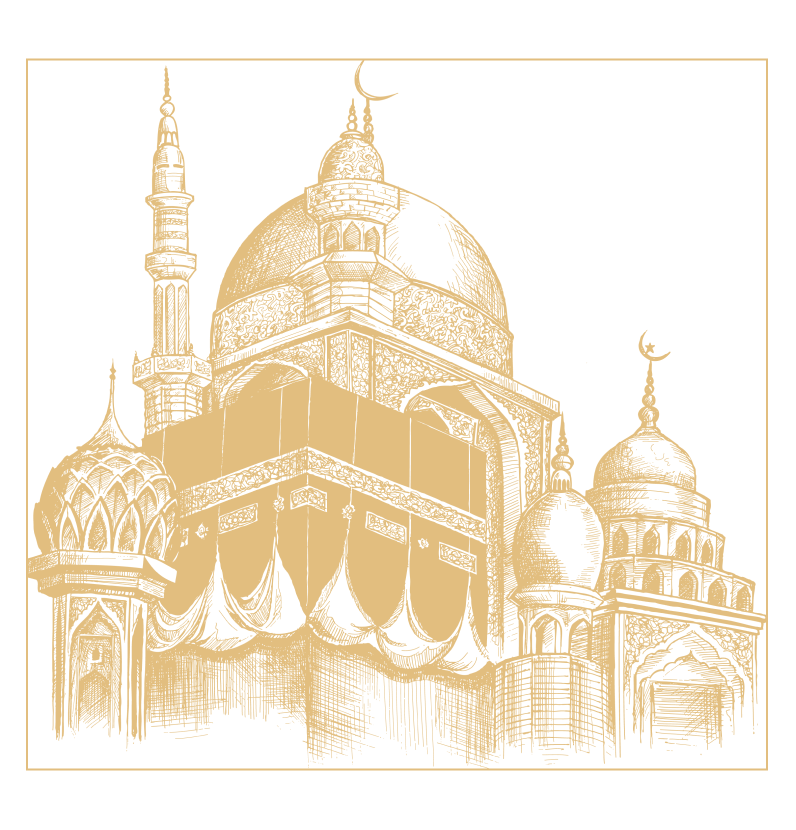
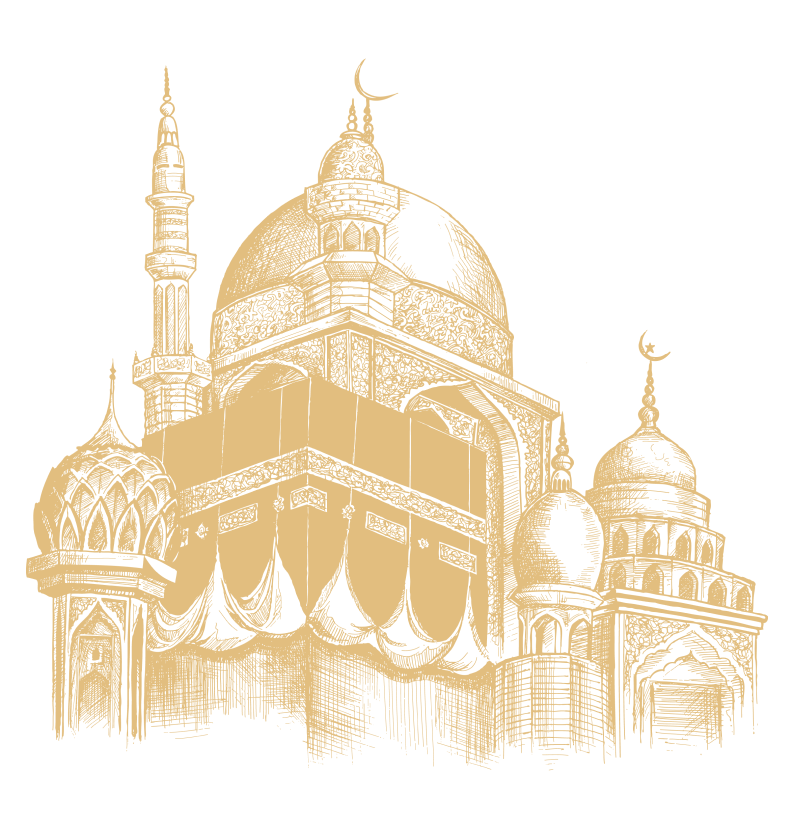
+ finished on introduction screen.

Changed region(s): [[0.0302, 0.9036, 0.9648, 0.9337], [0.0302, 0.0602, 0.9648, 0.0904]]

diff --git a/lib/ui/screens/on_boarding/on_boarding_screen.dart b/lib/ui/screens/on_boarding/on_boarding_screen.dart
@@ -1,0 +1,73 @@
+import 'package:flutter/material.dart';
+import 'package:introduction_screen/introduction_screen.dart';
+import 'package:islami/core/utils/app_assets.dart';
+import 'package:islami/core/utils/app_colors.dart';
+import 'package:islami/core/utils/app_routes.dart';
+import 'package:islami/core/utils/app_size_utils.dart';
+import 'package:islami/ui/screens/on_boarding/page_widget.dart';
+
+import '../../../core/utils/app_styles.dart';
+
+class OnBoardingScreen extends StatelessWidget {
+  const OnBoardingScreen ({super.key});
+
+  @override
+  Widget build(BuildContext context) {
+    double width = context.width;
+    double height = context.height;
+    return Scaffold(
+      backgroundColor: AppColors.black,
+      body: IntroductionScreen(
+        rawPages: [
+          PageWidget(isPageOne: true,),
+          PageWidget(
+            image: AppAssets.intro2,
+            title: "Welcome To Islami",
+            body: "We Are Very Excited To Have You In Our Community",
+          ),
+          PageWidget(
+            image: AppAssets.intro3,
+            title: "Reading the Quran",
+            body: "Read, and your Lord is the Most Generous",
+          ),
+          PageWidget(
+            image: AppAssets.intro4,
+            title: "Bearish",
+            body: "Praise the name of your Lord, the Most High",
+          ),
+          PageWidget(
+            image: AppAssets.intro5,
+            title: "Holy Quran Radio",
+            body: "You can listen to the Holy Quran Radio through the application for free and easily",
+          ),
+        ],
+        globalHeader: Image.asset(AppAssets.appLogo),
+        globalBackgroundColor: AppColors.black,
+        showBackButton: true,
+        back: Text(
+            "Back",
+          style: AppStyles.bold16Primary,
+        ),
+        next: Text(
+            "Next",
+          style: AppStyles.bold16Primary,
+        ),
+        done: Text(
+            "Finish",
+          style:AppStyles.bold16Primary,
+        ),
+        onDone: () {
+          Navigator.of(context).pushReplacementNamed(AppRoutes.home);
+        },
+        dotsDecorator:DotsDecorator(
+          size: Size(width * 0.016, height * 0.007),
+          activeSize: Size(width*0.04, height * 0.007),
+          activeColor: AppColors.primaryColor,
+          activeShape: RoundedRectangleBorder(
+            borderRadius: BorderRadiusGeometry.circular(40)
+          )
+        ),
+      ),
+    );
+  }
+}

diff --git a/lib/core/utils/app_styles.dart b/lib/core/utils/app_styles.dart
@@ -1,0 +1,84 @@
+import 'package:flutter/material.dart';
+import 'package:islami/core/utils/app_colors.dart';
+
+class AppStyles {
+  static TextStyle bold24Primary = TextStyle(
+    fontSize: 24,
+    fontWeight: FontWeight.bold,
+    color: AppColors.primaryColor
+  );
+  static TextStyle bold20Primary = TextStyle(
+      fontSize: 20,
+      fontWeight: FontWeight.bold,
+      color: AppColors.primaryColor
+  );
+  static TextStyle bold16Primary = TextStyle(
+      fontSize: 16,
+      fontWeight: FontWeight.bold,
+      color: AppColors.primaryColor
+  );
+  static TextStyle bold16OffWhite = TextStyle(
+      fontSize: 16,
+      fontWeight: FontWeight.bold,
+      color: AppColors.offWhite
+  );
+  static TextStyle bold36White = TextStyle(
+      fontSize: 36,
+      fontWeight: FontWeight.bold,
+      color: AppColors.white
+  );
+  static TextStyle bold32White = TextStyle(
+      fontSize: 32,
+      fontWeight: FontWeight.bold,
+      color: AppColors.white
+  );
+  static TextStyle bold20White = TextStyle(
+      fontSize: 20,
+      fontWeight: FontWeight.bold,
+      color: AppColors.white
+  );
+  static TextStyle bold16White = TextStyle(
+      fontSize: 16,
+      fontWeight: FontWeight.bold,
+      color: AppColors.white
+  );
+  static TextStyle bold14White = TextStyle(
+      fontSize: 14,
+      fontWeight: FontWeight.bold,
+      color: AppColors.white
+  );
+  static TextStyle bold12White = TextStyle(
+      fontSize: 12,
+      fontWeight: FontWeight.bold,
+      color: AppColors.white
+  );
+  static TextStyle bold24Black = TextStyle(
+      fontSize: 24,
+      fontWeight: FontWeight.bold,
+      color: AppColors.black
+  );
+  static TextStyle bold16Black = TextStyle(
+      fontSize: 16,
+      fontWeight: FontWeight.bold,
+      color: AppColors.black
+  );
+  static TextStyle bold14Black = TextStyle(
+      fontSize: 14,
+      fontWeight: FontWeight.bold,
+      color: AppColors.black
+  );
+  static TextStyle bold20Black71Opacity = TextStyle(
+      fontSize: 20,
+      fontWeight: FontWeight.bold,
+      color: AppColors.Black71Opacity
+  );
+  static TextStyle bold20Black90Opacity = TextStyle(
+      fontSize: 20,
+      fontWeight: FontWeight.bold,
+      color: AppColors.Black90Opacity
+  );
+  static TextStyle bold16 = TextStyle(
+      fontSize: 20,
+      fontWeight: FontWeight.bold,
+  );
+}

diff --git a/lib/ui/screens/on_boarding/page_widget.dart b/lib/ui/screens/on_boarding/page_widget.dart
@@ -1,0 +1,56 @@
+import 'package:flutter/material.dart';
+import 'package:islami/core/utils/app_assets.dart';
+import 'package:islami/core/utils/app_styles.dart';
+import '../../../core/utils/app_size_utils.dart';
+
+class PageWidget extends StatelessWidget {
+  final bool isPageOne;
+  final String? image;
+  final String? title;
+  final String? body;
+  const PageWidget({
+    super.key,
+    this.isPageOne = false,
+    this.image,
+    this.title,
+    this.body,
+  });
+
+  @override
+  Widget build(BuildContext context) {
+    double width = context.width;
+    double height = context.height;
+    return (isPageOne) ? Column(
+      spacing: height * 0.14,
+      children: [
+        SizedBox(height: height * 0.16,),
+        Image.asset(AppAssets.intro1),
+        Text(
+            "Welcome To Islami App",
+          style: AppStyles.bold24Primary,
+        )
+      ],
+    )
+    : Padding(
+      padding: EdgeInsets.symmetric(
+        horizontal: width * 0.02
+      ),
+      child: Column(
+        spacing: height * 0.04,
+        children: [
+          SizedBox(height: height * 0.2,),
+          Image.asset(image!),
+          Text(
+            title!,
+            style: AppStyles.bold24Primary,
+          ),
+          Text(
+            body!,
+            style: AppStyles.bold20Primary,
+            textAlign: TextAlign.center,
+          ),
+        ],
+      ),
+    );
+  }
+}

diff --git a/lib/main.dart b/lib/main.dart
@@ -1,6 +1,8 @@
 import 'package:flutter/material.dart';
 import 'package:islami/core/utils/app_routes.dart';
+import 'package:islami/core/utils/app_theme.dart';
 import 'package:islami/ui/screens/home/home_screen.dart';
+import 'package:islami/ui/screens/on_boarding/on_boarding_screen.dart';
 
 void main() {
   runApp(const MyApp());
@@ -13,8 +15,13 @@ class MyApp extends StatelessWidget {
   Widget build(BuildContext context) {
     return MaterialApp(
       debugShowCheckedModeBanner: false,
-      initialRoute: AppRoutes.home,
-      routes: {AppRoutes.home: (context) => HomeScreen()},
+      darkTheme: AppTheme.darkMode,
+      themeMode: ThemeMode.dark,
+      initialRoute: AppRoutes.onBoarding,
+      routes: {
+        AppRoutes.home : (context) => HomeScreen(),
+        AppRoutes.onBoarding : (context) => OnBoardingScreen(),
+      },
     );
   }
 }

diff --git a/lib/core/utils/app_colors.dart b/lib/core/utils/app_colors.dart
@@ -4,7 +4,10 @@ class AppColors {
   static const Color primaryColor = Color(0xffE2BE7F);
   static const Color black = Color(0xff202020);
   static const Color white = Color(0xffffffff);
-  static const Color lightBlack = Color(0x99202020);
+  static const Color offWhite = Color(0xffFEFFE8);
+  static const Color Black60Opacity = Color(0x99202020);
+  static const Color Black71Opacity = Color(0xB5202020);
+  static const Color Black90Opacity = Color(0xE6202020);
   static const Color brown = Color(0xff856B3F);
   static const Color transparent = Colors.transparent;
 }

diff --git a/lib/core/utils/app_assets.dart b/lib/core/utils/app_assets.dart
@@ -39,4 +39,6 @@ class AppAssets {
   static const String playIcon = "assets/images/play_icon.png";
   static const String sebha = "assets/images/sebha_image.png";
   static const String soundWaves = "assets/images/sound_waves.png";
+  static const String sebhaDecorative = "assets/images/sebha_decorative.png";
+  static const String sebhaBeads = "assets/images/sebha_beads.png";
 }

diff --git a/lib/core/utils/app_size_utils.dart b/lib/core/utils/app_size_utils.dart
@@ -1,0 +1,6 @@
+import 'package:flutter/material.dart';
+
+extension AppSizeUtils on BuildContext{
+  double get width => MediaQuery.of(this).size.width;
+  double get height => MediaQuery.of(this).size.height;
+}

diff --git a/lib/core/utils/app_theme.dart b/lib/core/utils/app_theme.dart
@@ -1,0 +1,7 @@
+import 'package:flutter/material.dart';
+
+class AppTheme {
+  static final ThemeData darkMode = ThemeData(
+    fontFamily: "JannaLT"
+  );
+}

diff --git a/lib/core/utils/app_routes.dart b/lib/core/utils/app_routes.dart
@@ -1,3 +1,4 @@
 class AppRoutes {
   static const String home = "home_screen";
+  static const String onBoarding = "on_boarding_screen";
 }
